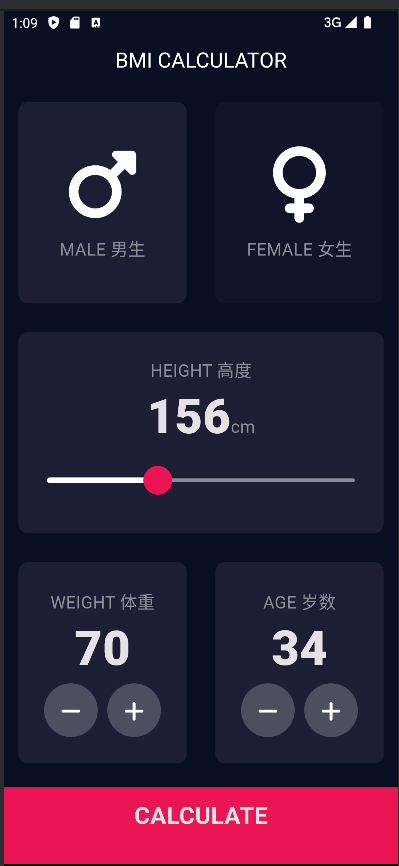
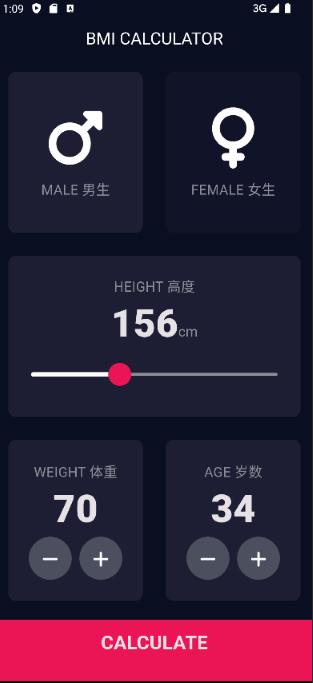
resize image

diff --git a/README.md b/README.md
@@ -3,4 +3,4 @@
 This is a BMI calculator app that calculates the BMI of a person based on gender, height and weight. The first page looks like this:
 ![Alt text](readme_images/Screen1.png?raw=true "BMI input page")
 
-![Alt text](bmi_calc/readme_images/Screen2.png?raw=true "BMI input page")
+![Alt text](readme_images/Screen2.png?raw=true "BMI input page")
